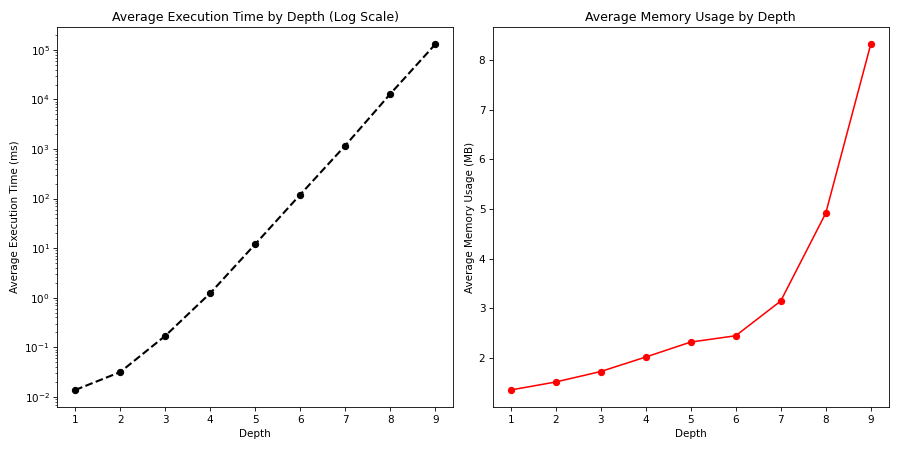
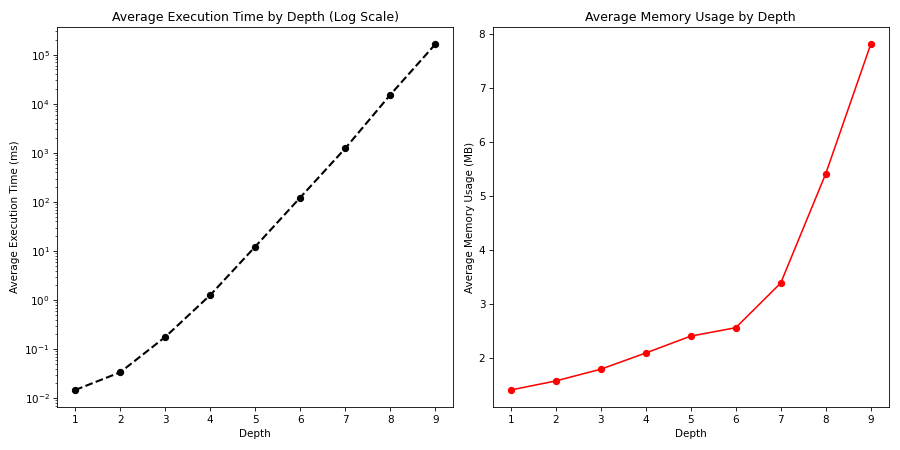
update report and rerun

diff --git a/report.py b/report.py
@@ -86,7 +86,7 @@ def analyze_results(all_results):
             report_file.write(report)
 
              # Writing detailed test results for each depth
-            table = "<details>\n<summary>Test Results</summary>\n\n"
+            table = "<details>\n<summary><strong>Test Results</strong></summary>\n\n"
             table += "| Depth | Time (ms) | Memory Usage (MB) |\n| --- | --- | --- |\n"
             table += "\n".join(
                 f"| {depth} | {test['executionTime']:.4f} | {test['memoryUsage']:.4f} |"

diff --git a/test_analysis_report.md b/test_analysis_report.md
@@ -1,6 +1,6 @@
 # Test Analysis Report
 ## Test Parameters
-- Number of Tests: 820
+- Number of Tests: 830
 - Number of Depths: 9
 - Depths: 1, 2, 3, 4, 5, 6, 7, 8, 9
 
@@ -9,32 +9,42 @@
 
 | Depth | Average Time (ms) | Average Memory Usage (MB) |
 | --- | --- | --- |
-| 1 | 0.0138 | 1.3527 |
-| 2 | 0.0317 | 1.5141 |
-| 3 | 0.1699 | 1.7248 |
-| 4 | 1.2358 | 2.0165 |
-| 5 | 12.0375 | 2.3179 |
-| 6 | 120.1259 | 2.4453 |
-| 7 | 1170.3443 | 3.1445 |
-| 8 | 12901.2152 | 4.9131 |
-| 9 | 129466.6741 | 8.3149 |
+| 1 | 0.0147 | 1.4104 |
+| 2 | 0.0337 | 1.5775 |
+| 3 | 0.1766 | 1.7949 |
+| 4 | 1.2596 | 2.0944 |
+| 5 | 12.2534 | 2.4069 |
+| 6 | 122.6465 | 2.5624 |
+| 7 | 1232.1892 | 3.3887 |
+| 8 | 15204.0159 | 5.4116 |
+| 9 | 163026.9187 | 7.8056 |
 
 ### Depth 1
-- Number of Tests: 820
+- Number of Tests: 830
 - Execution Time:
-  - Mean (Avg): 0.0138 ms
+  - Mean (Avg): 0.0147 ms
   - Max: 1.3009 ms
   - Min: 0.0011 ms
 - Memory Usage:
-  - Mean (Avg): 1.3527 MB
+  - Mean (Avg): 1.4104 MB
   - Max: 11.7891 MB
   - Min: 0.2077 MB
 
 <details>
-<summary>Test Results</summary>
+<summary><strong>Test Results</strong></summary>
 
 | Depth | Time (ms) | Memory Usage (MB) |
 | --- | --- | --- |
+| 1 | 0.7907 | 0.2087 |
+| 1 | 0.0044 | 2.8332 |
+| 1 | 0.0044 | 3.8281 |
+| 1 | 0.0303 | 4.8321 |
+| 1 | 0.0060 | 5.8161 |
+| 1 | 0.0042 | 6.8079 |
+| 1 | 0.0056 | 7.7959 |
+| 1 | 0.0056 | 8.7857 |
+| 1 | 0.0323 | 9.7653 |
+| 1 | 0.0065 | 10.7574 |
 | 1 | 0.0028 | 2.2105 |
 | 1 | 0.0030 | 2.2222 |
 | 1 | 0.0025 | 2.2344 |
@@ -861,21 +871,31 @@
 
 
 ### Depth 2
-- Number of Tests: 720
+- Number of Tests: 730
 - Execution Time:
-  - Mean (Avg): 0.0317 ms
+  - Mean (Avg): 0.0337 ms
   - Max: 1.9965 ms
   - Min: 0.0100 ms
 - Memory Usage:
-  - Mean (Avg): 1.5141 MB
+  - Mean (Avg): 1.5775 MB
   - Max: 11.7891 MB
   - Min: 0.2077 MB
 
 <details>
-<summary>Test Results</summary>
+<summary><strong>Test Results</strong></summary>
 
 | Depth | Time (ms) | Memory Usage (MB) |
 | --- | --- | --- |
+| 2 | 1.5912 | 0.2087 |
+| 2 | 0.0202 | 2.8332 |
+| 2 | 0.0195 | 3.8281 |
+| 2 | 0.0194 | 4.8321 |
+| 2 | 0.0194 | 5.8161 |
+| 2 | 0.0193 | 6.8079 |
+| 2 | 0.0214 | 7.7959 |
+| 2 | 0.0195 | 8.7857 |
+| 2 | 0.0194 | 9.7653 |
+| 2 | 0.0238 | 10.7574 |
 | 2 | 0.0105 | 2.2105 |
 | 2 | 0.0124 | 2.2222 |
 | 2 | 0.0102 | 2.2344 |
@@ -1602,21 +1622,31 @@
 
 
 ### Depth 3
-- Number of Tests: 620
+- Number of Tests: 630
 - Execution Time:
-  - Mean (Avg): 0.1699 ms
+  - Mean (Avg): 0.1766 ms
   - Max: 7.3989 ms
   - Min: 0.0996 ms
 - Memory Usage:
-  - Mean (Avg): 1.7248 MB
+  - Mean (Avg): 1.7949 MB
   - Max: 11.7891 MB
   - Min: 0.2077 MB
 
 <details>
-<summary>Test Results</summary>
+<summary><strong>Test Results</strong></summary>
 
 | Depth | Time (ms) | Memory Usage (MB) |
 | --- | --- | --- |
+| 3 | 4.1464 | 0.2087 |
+| 3 | 0.1938 | 2.8332 |
+| 3 | 0.1954 | 3.8281 |
+| 3 | 0.2002 | 4.8321 |
+| 3 | 0.1956 | 5.8161 |
+| 3 | 0.2003 | 6.8079 |
+| 3 | 0.1955 | 7.7959 |
+| 3 | 0.1969 | 8.7857 |
+| 3 | 0.2066 | 9.7653 |
+| 3 | 0.2002 | 10.7574 |
 | 3 | 0.1044 | 2.2105 |
 | 3 | 0.1234 | 2.2222 |
 | 3 | 0.1020 | 2.2344 |
@@ -2243,21 +2273,31 @@
 
 
 ### Depth 4
-- Number of Tests: 520
+- Number of Tests: 530
 - Execution Time:
-  - Mean (Avg): 1.2358 ms
-  - Max: 5.8622 ms
+  - Mean (Avg): 1.2596 ms
+  - Max: 7.4257 ms
   - Min: 0.9936 ms
 - Memory Usage:
-  - Mean (Avg): 2.0165 MB
+  - Mean (Avg): 2.0944 MB
   - Max: 11.7891 MB
   - Min: 0.2077 MB
 
 <details>
-<summary>Test Results</summary>
+<summary><strong>Test Results</strong></summary>
 
 | Depth | Time (ms) | Memory Usage (MB) |
 | --- | --- | --- |
+| 4 | 7.4257 | 0.2087 |
+| 4 | 1.9147 | 2.8332 |
+| 4 | 1.9204 | 3.8281 |
+| 4 | 2.0022 | 4.8321 |
+| 4 | 1.9292 | 5.8161 |
+| 4 | 1.9344 | 6.8079 |
+| 4 | 1.9354 | 7.7959 |
+| 4 | 1.9486 | 8.7857 |
+| 4 | 1.9238 | 9.7653 |
+| 4 | 2.0475 | 10.7574 |
 | 4 | 1.0200 | 2.2105 |
 | 4 | 1.2301 | 2.2222 |
 | 4 | 1.2608 | 2.2344 |
@@ -2784,21 +2824,31 @@
 
 
 ### Depth 5
-- Number of Tests: 420
+- Number of Tests: 430
 - Execution Time:
-  - Mean (Avg): 12.0375 ms
+  - Mean (Avg): 12.2534 ms
   - Max: 37.3940 ms
   - Min: 10.2269 ms
 - Memory Usage:
-  - Mean (Avg): 2.3179 MB
+  - Mean (Avg): 2.4069 MB
   - Max: 11.7891 MB
   - Min: 0.2077 MB
 
 <details>
-<summary>Test Results</summary>
+<summary><strong>Test Results</strong></summary>
 
 | Depth | Time (ms) | Memory Usage (MB) |
 | --- | --- | --- |
+| 5 | 37.1135 | 0.2087 |
+| 5 | 19.1297 | 2.8332 |
+| 5 | 19.2859 | 3.8281 |
+| 5 | 19.6103 | 4.8321 |
+| 5 | 19.3999 | 5.8161 |
+| 5 | 19.4048 | 6.8079 |
+| 5 | 19.3865 | 7.7959 |
+| 5 | 19.6562 | 8.7857 |
+| 5 | 19.4694 | 9.7653 |
+| 5 | 20.7477 | 10.7574 |
 | 5 | 11.8770 | 2.2105 |
 | 5 | 12.3682 | 2.2222 |
 | 5 | 10.3818 | 2.2344 |
@@ -3225,21 +3275,31 @@
 
 
 ### Depth 6
-- Number of Tests: 320
+- Number of Tests: 330
 - Execution Time:
-  - Mean (Avg): 120.1259 ms
-  - Max: 179.0346 ms
+  - Mean (Avg): 122.6465 ms
+  - Max: 261.2737 ms
   - Min: 107.7531 ms
 - Memory Usage:
-  - Mean (Avg): 2.4453 MB
+  - Mean (Avg): 2.5624 MB
   - Max: 11.7910 MB
   - Min: 1.8468 MB
 
 <details>
-<summary>Test Results</summary>
+<summary><strong>Test Results</strong></summary>
 
 | Depth | Time (ms) | Memory Usage (MB) |
 | --- | --- | --- |
+| 6 | 261.2737 | 1.8539 |
+| 6 | 193.1636 | 2.8355 |
+| 6 | 194.0295 | 3.8298 |
+| 6 | 197.0330 | 4.8341 |
+| 6 | 195.7536 | 5.8185 |
+| 6 | 194.6744 | 6.8101 |
+| 6 | 200.1223 | 7.7978 |
+| 6 | 198.6352 | 8.7879 |
+| 6 | 200.0451 | 9.7673 |
+| 6 | 198.3257 | 10.7604 |
 | 6 | 117.7977 | 2.2133 |
 | 6 | 125.7642 | 2.2244 |
 | 6 | 116.3782 | 2.2366 |
@@ -3566,21 +3626,31 @@
 
 
 ### Depth 7
-- Number of Tests: 120
+- Number of Tests: 130
 - Execution Time:
-  - Mean (Avg): 1170.3443 ms
-  - Max: 1426.1512 ms
+  - Mean (Avg): 1232.1892 ms
+  - Max: 2029.7771 ms
   - Min: 1099.7665 ms
 - Memory Usage:
-  - Mean (Avg): 3.1445 MB
+  - Mean (Avg): 3.3887 MB
   - Max: 11.7997 MB
-  - Min: 1.8653 MB
+  - Min: 1.8635 MB
 
 <details>
-<summary>Test Results</summary>
+<summary><strong>Test Results</strong></summary>
 
 | Depth | Time (ms) | Memory Usage (MB) |
 | --- | --- | --- |
+| 7 | 1948.1085 | 1.8635 |
+| 7 | 2029.7771 | 2.8449 |
+| 7 | 1940.6357 | 3.8385 |
+| 7 | 1987.3104 | 4.8446 |
+| 7 | 1950.4889 | 5.8290 |
+| 7 | 2004.5107 | 6.8201 |
+| 7 | 1967.4853 | 7.8081 |
+| 7 | 1968.5706 | 8.7976 |
+| 7 | 1971.6060 | 9.7761 |
+| 7 | 1974.7816 | 10.7687 |
 | 7 | 1209.9125 | 2.2222 |
 | 7 | 1201.0566 | 2.2344 |
 | 7 | 1122.3985 | 2.2465 |
@@ -3707,21 +3777,31 @@
 
 
 ### Depth 8
-- Number of Tests: 20
+- Number of Tests: 30
 - Execution Time:
-  - Mean (Avg): 12901.2152 ms
-  - Max: 13202.7573 ms
+  - Mean (Avg): 15204.0159 ms
+  - Max: 20507.9253 ms
   - Min: 12590.3901 ms
 - Memory Usage:
-  - Mean (Avg): 4.9131 MB
+  - Mean (Avg): 5.4116 MB
   - Max: 11.8899 MB
   - Min: 1.9528 MB
 
 <details>
-<summary>Test Results</summary>
+<summary><strong>Test Results</strong></summary>
 
 | Depth | Time (ms) | Memory Usage (MB) |
 | --- | --- | --- |
+| 8 | 19119.6958 | 1.9539 |
+| 8 | 19424.7579 | 2.9365 |
+| 8 | 19386.9771 | 3.9303 |
+| 8 | 19805.9660 | 4.9299 |
+| 8 | 19912.2637 | 5.9225 |
+| 8 | 19968.0107 | 6.9083 |
+| 8 | 19863.6173 | 7.8958 |
+| 8 | 20406.6365 | 8.8843 |
+| 8 | 19700.3222 | 9.8659 |
+| 8 | 20507.9253 | 10.8595 |
 | 8 | 12834.6263 | 1.9528 |
 | 8 | 12941.8222 | 2.0532 |
 | 8 | 12712.9531 | 2.1547 |
@@ -3748,21 +3828,31 @@
 
 
 ### Depth 9
-- Number of Tests: 10
+- Number of Tests: 20
 - Execution Time:
-  - Mean (Avg): 129466.6741 ms
-  - Max: 132444.8602 ms
+  - Mean (Avg): 163026.9187 ms
+  - Max: 202189.5296 ms
   - Min: 127639.2988 ms
 - Memory Usage:
-  - Mean (Avg): 8.3149 MB
+  - Mean (Avg): 7.8056 MB
   - Max: 12.7907 MB
-  - Min: 3.8477 MB
+  - Min: 2.8332 MB
 
 <details>
-<summary>Test Results</summary>
+<summary><strong>Test Results</strong></summary>
 
 | Depth | Time (ms) | Memory Usage (MB) |
 | --- | --- | --- |
+| 9 | 194142.7654 | 2.8332 |
+| 9 | 195450.4072 | 3.8281 |
+| 9 | 185511.9311 | 4.8321 |
+| 9 | 195219.1396 | 5.8161 |
+| 9 | 198117.4548 | 6.8079 |
+| 9 | 198187.9411 | 7.7959 |
+| 9 | 197511.6674 | 8.7857 |
+| 9 | 199726.6734 | 9.7653 |
+| 9 | 199814.1234 | 10.7574 |
+| 9 | 202189.5296 | 11.7415 |
 | 9 | 127639.2988 | 3.8477 |
 | 9 | 128637.5556 | 4.8400 |
 | 9 | 128510.2128 | 5.8366 |
